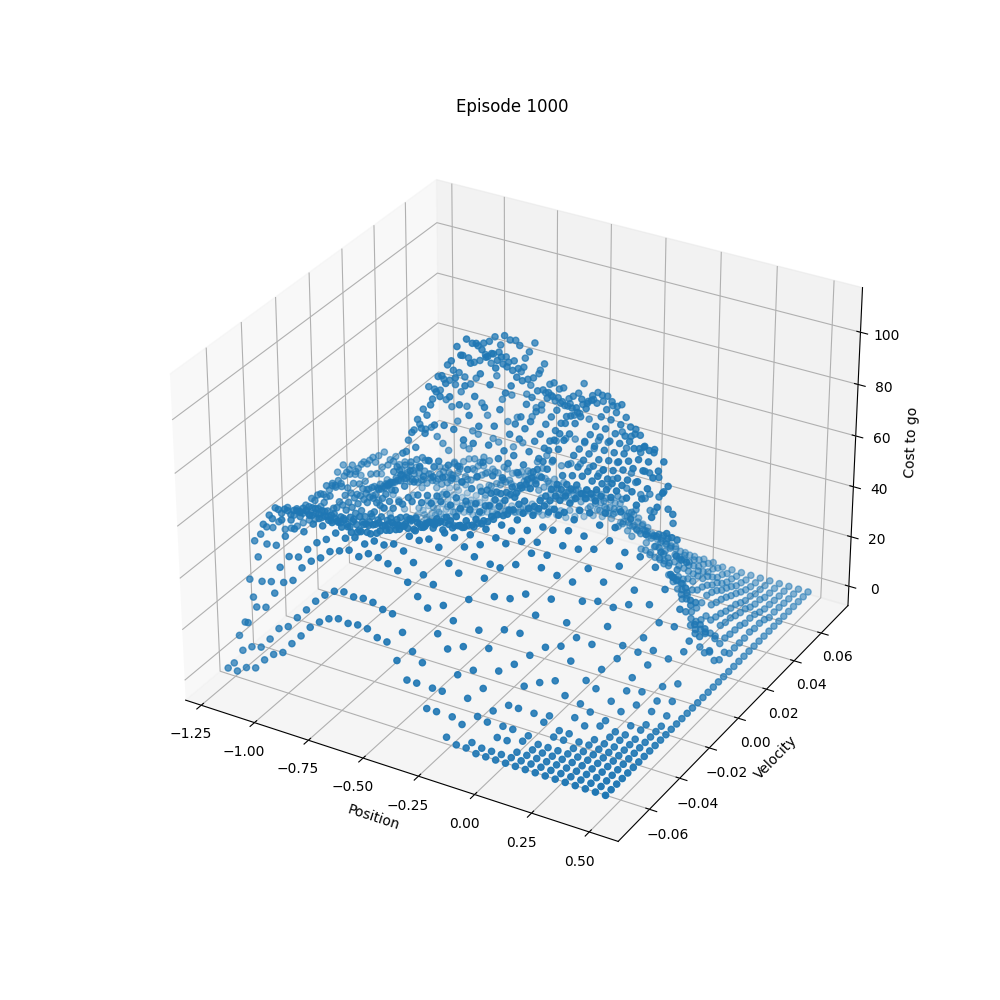
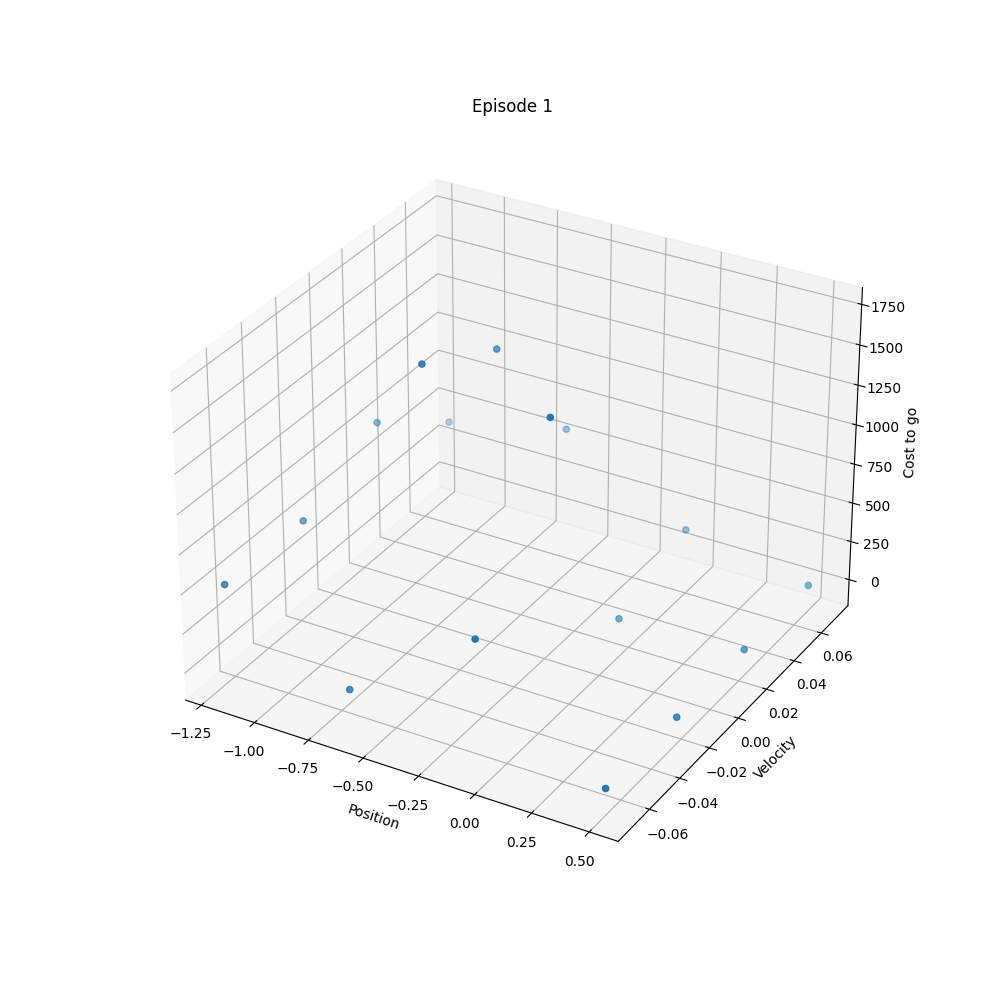
...

diff --git a/PA3/temp.py b/PA3/temp.py
@@ -1,77 +1,68 @@
 import numpy as np
-
-from Tiles import IHT, tiles
+from itertools import product as prod
+from random import sample
 
 
 class SarsaLambda:
-    # In this example I use the tiling software instead of implementing standard tiling by myself
-    # One important thing is that tiling is only a map from (state, action) to a series of indices
-    # It doesn't matter whether the indices have meaning, only if this map satisfy some property
-    # View the following webpage for more information
-    # http://incompleteideas.net/sutton/tiles/tiles3.html
-    # @maxSize: the maximum # of indices
-    def __init__(self, actions, min_maxes, discount, num_of_tilings=8, max_size=2048):
-        self.actions = actions
-        self.discount = discount
-        self.num_of_tilings = num_of_tilings
-        self.max_size = max_size
+    def __init__(self, lam, alpha, model, order=3, dims=2):
+        self.lam = lam
+        self.alphas = [alpha]
+        self.model = model
+        self.order = order
+        self.dims = dims
 
         # set up bases function
-        self.bases = []
-        for n in range(3 + 1):
-            c = []
-            for d in range(2):
-                c.append(d)
-            self.bases.append(lambda s: np.cos(np.pi * c * s))
-
-        self.alpha, self.lam = None, None
-
-        self.hash_table = IHT(max_size)
+        self.num_bases = (order + 1) ** dims
+        self.bases = lambda s, c: np.cos(np.pi * np.dot(s, c))
+        all_consts = list(prod(range(order + 1), repeat=dims))
+        self.consts = [np.array(all_consts[0])]
+        all_consts.remove(all_consts[0])
+        for const in sample(all_consts, self.num_bases - 1):
+            const = np.array(const)
+            self.consts.append(const)
+            self.alphas.append(alpha / np.linalg.norm(const))
 
         # weight for each tile
-        self.weights = np.zeros(3 + 1)
+        self.weights = np.zeros(self.num_bases)
 
         # trace for each tile
-        self.trace = np.zeros(max_size)
-
-        # position and velocity needs scaling to satisfy the tile software
-        self.position_scale = self.num_of_tilings / (min_maxes[1] - min_maxes[0])
-        self.velocity_scale = self.num_of_tilings / (min_maxes[3] - min_maxes[2])
-
-    def setEvaluator(self, alpha, lam):
-        self.alpha = alpha  # / self.num_of_tilings
-        self.lam = lam
-        self.hash_table = IHT(self.max_size)
-        self.weights = np.zeros(3 + 1)
-        self.trace = np.zeros(self.max_size)
-        return self
-
-    # get indices of active tiles for given state and action
-    def get_active_tiles(self, state, action):
-        # I think positionScale * (position - position_min) would be a good normalization.
-        # However, positionScale * position_min is a constant, so it's ok to ignore it.
-        return tiles(self.hash_table, self.num_of_tilings,
-                     [self.position_scale * state[0], self.velocity_scale * state[1]], [action])
+        self.trace = np.zeros(self.num_bases)
 
     # estimate the value of given state and action
-    def value(self, model, action):
-        if model.isTerminal():
+    def value(self, action):
+        if self.model.isTerminal():
             return 0.0
 
-        # return np.sum(self.weights[self.get_active_tiles(model.getState(), action)])
+        prev = self.model.getState()
 
-        state = model.getState()
-        state /= float(self.max_size)
-        feature = np.asarray([func(state) for func in self.bases])
+        self.model.update(action)
+        state = self.model.getState()
+        for i in range(len(state)):
+            state[i] = (state[i] - self.model.min_maxes[i * 2]) /\
+                       (self.model.min_maxes[i * 2 + 1] - self.model.min_maxes[i * 2])
+        state = np.array(state)
 
-        return np.dot(self.weights, feature)
+        features = []
+        for i in range(self.num_bases):
+            features.append(self.bases(state, self.consts[i]))
+        features = np.array(features)
 
-    # learn with given state, action and target
-    def learn(self, state, action, delta):
-        state /= float(self.max_size)
-        derivative_value = np.asarray([func(state) for func in self.bases])
-        # delta = self.alpha * (reward - self.value(model, action))
-        self.weights += self.alpha * delta * derivative_value
+        self.model.set(prev)
+        print(self.weights, features)
+        return np.dot(self.weights, features)
+
+    # learn with given state and delta
+    def learn(self, state, delta):
+        for i in range(len(state)):
+            state[i] = (state[i] - self.model.min_maxes[i * 2]) /\
+                       (self.model.min_maxes[i * 2 + 1] - self.model.min_maxes[i * 2])
+        state = np.array(state)
+
+        for i in range(self.num_bases):
+            delta -= self.weights * self.bases(state, self.consts[i])
+
+        for i in range(self.num_bases):
+            self.weights[i] += self.lam * self.alphas[i] * delta
 
         # active_tiles = self.get_active_tiles(state, action)
         # delta = target - np.sum(self.weights[active_tiles])
@@ -84,8 +75,8 @@ class SarsaLambda:
         # self.weights += self.alpha * delta * self.trace
 
     # get # of steps to reach the goal under current state value function
-    def cost_to_go(self, model):
+    def cost_to_go(self):
         costs = []
-        for action in self.actions:
-            costs.append(self.value(model, action))
+        for action in self.model.actions:
+            costs.append(self.value(action))
         return -np.max(costs)

diff --git a/PA3/test.py b/PA3/test.py
@@ -11,11 +11,12 @@ import numpy as np
 from tqdm import tqdm
 
 from MountainCar import MountainCar
-from SarsaLambda import SarsaLambda as sl
+# from SarsaLambda import SarsaLambda as sl
+from temp import SarsaLambda as sl
 
 DISCOUNT = 1.0
 EPSILON = 0
-MAX_STEPS = 1000
+MAX_STEPS = 10
 
 
 # get action at @position and @velocity based on epsilon greedy policy and @valueFunction
@@ -24,7 +25,7 @@ def get_action(mountain_car, evaluator):
         return np.random.choice(mountain_car.actions)
     values = []
     for action in mountain_car.actions:
-        values.append(evaluator.value(mountain_car, action))
+        values.append(evaluator.value(action))
     return np.argmax(values) - 1
 
 
@@ -43,8 +44,8 @@ def play(mountain_car, evaluator):
         next_state = mountain_car.update(action)
         next_action = get_action(mountain_car, evaluator)
 
-        target = -1 + DISCOUNT * evaluator.value(mountain_car, next_action)
-        evaluator.learn(state, action, target)
+        target = -1 + DISCOUNT * evaluator.value(next_action)
+        evaluator.learn(state, target)
 
         state = next_state
         action = next_action
@@ -55,7 +56,7 @@ def play(mountain_car, evaluator):
 
 # print learned cost to go
 def print_cost(model, value_function, episode, ax):
-    grid_size = 40
+    grid_size = 4
     positions = np.linspace(model.min_maxes[0], model.min_maxes[1], grid_size)
     velocities = np.linspace(model.min_maxes[2], model.min_maxes[3], grid_size)
     axis_x = []
@@ -65,8 +66,9 @@ def print_cost(model, value_function, episode, ax):
         for velocity in velocities:
             axis_x.append(position)
             axis_y.append(velocity)
-            model.set(position, velocity)
-            axis_z.append(value_function.cost_to_go(model))
+            model.set([position, velocity])
+            axis_z.append(value_function.cost_to_go())
+            print()
 
     ax.scatter(axis_x, axis_y, axis_z)
     ax.set_xlabel('Position')
@@ -77,14 +79,12 @@ def print_cost(model, value_function, episode, ax):
 
 # Figure 10.1, cost to go in a single run
 def figure_10_1():
-    episodes = 1000
+    episodes = 1
     fig = plt.figure(figsize=(10, 10))
     axes = fig.add_subplot(projection='3d')
-    alpha = 0.4
 
     mountain_car = MountainCar()
-    sarsa_lam = sl(mountain_car.actions, mountain_car.min_maxes, DISCOUNT)
-    sarsa_lam = sarsa_lam.setEvaluator(alpha, 0.9)
+    sarsa_lam = sl(0.9, 0.4, mountain_car)
 
     last_ep = None
     for ep in tqdm(range(episodes), ncols=100):

diff --git a/PA3/MountainCar.py b/PA3/MountainCar.py
@@ -14,9 +14,9 @@ class MountainCar:
         self.x = np.random.uniform(-0.6, -0.4)
         self.v = 0.0
 
-    def set(self, position: float, velocity: float):
-        self.x = position
-        self.v = velocity
+    def set(self, state: [float, float]):
+        self.x = state[0]
+        self.v = state[1]
 
     def update(self, action) -> [float, float]:
         self.v += 0.001 * action - 0.0025 * np.cos(np.pi * self.x)
